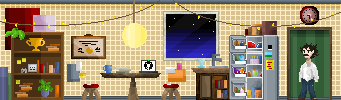
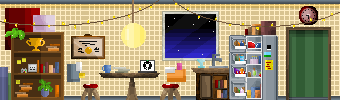
added site background brick + waving

diff --git a/main.js b/main.js
@@ -2,12 +2,14 @@
 // game configuration
 const config = {
     type: Phaser.AUTO,  
-    width: 341,
+    width: 340,
     height: 100,
     pixelArt: true,   // declare this for upscaling
     scale: {
-      mode: Phaser.Scale.NONE,
-      zoom: 3                  
+      mode: Phaser.Scale.FIT, // FIT for full screen, None for smaller
+      zoom: 2,
+      autoCenter: Phaser.Scale.CENTER_BOTH  // put it in the MIDDLE of page
+                  
     },
     physics: {
       default: 'arcade',
@@ -33,7 +35,6 @@ const config = {
 
 
   // text box above the scene do i have to extend it to do that?
-  // need a cursor object for selecting items in house
   // gonna start with 3, diploma, github, and resume
 
 
@@ -55,7 +56,8 @@ const config = {
     this.load.spritesheet('walkingRight', 'assets/walkingRight.png', {frameWidth:64, frameHeight:64})
     this.load.spritesheet('lookUpLeft', 'assets/lookUpLeft.png', {frameWidth:64, frameHeight:64})
     this.load.spritesheet('lookUpRight', 'assets/lookUpRight.png', {frameWidth:64, frameHeight:64})
-    this.load.spritesheet('wave', 'assets/wave.png', {frameWidth:64, frameHeight:64})
+    this.load.spritesheet('waveLeft', 'assets/waveLeft.png', {frameWidth:64, frameHeight:64})
+    this.load.spritesheet('waveRight', 'assets/waveRight.png', {frameWidth:64, frameHeight:64})
 
 
   }
@@ -68,20 +70,22 @@ const config = {
     // the order you add items is how they appear (make sure background is before everything else)
     // background
     this.add.image(0, 0, 'sky').setOrigin(0, 0);
-    //this.add.image(170, 50, 'scene');
 
 
     // add ground
     platforms = this.physics.add.staticGroup();
 
     // change this to correct spot
-    platforms.create(0, 101, 'ground').setScale(2).refreshBody();
+    //platforms.create(0, 100, 'ground').setScale(2).refreshBody();
+    platforms.create(0, 100, 'ground').refreshBody();
 
 
 
     // char (might need to figure this out, idk if i need two players for left and right yet)
-    player = this.physics.add.sprite(100, 100, 'idleLeft');
-    // keep track of this
+    player = this.physics.add.sprite(310, 100, 'idleLeft');
+    // model isn't fully on ground in the assets so offset down to floor
+    player.setOffset(0,-5);
+    // keep track of this for animation smoothness
     player.facing = 'left';
 
 
@@ -149,13 +153,22 @@ const config = {
       repeat: -1
     })
 
-    // waving
+    // waving left
     this.anims.create({
-      key: 'waving',
-      frames: this.anims.generateFrameNumbers('wave', {start:0, end: 4}),
+      key: 'wavingLeft',
+      frames: this.anims.generateFrameNumbers('waveLeft', {start:0, end: 4}),
       frameRate: 7,
       repeat:-1
     })
+
+    // waving right
+    this.anims.create({
+      key: 'wavingRight',
+      frames: this.anims.generateFrameNumbers('waveRight', {start:0, end: 4}),
+      frameRate: 7,
+      repeat:-1
+    })
+
   }
   
   // gonna get called for every frame update (idk what phaser framerate is auto set to)
@@ -165,7 +178,11 @@ const config = {
     if (cursors.up.isDown) {
       // ptop moving left or right if in motion
       player.setVelocityX(0);
-      player.anims.play('waving', true);
+      if (player.facing === 'left') {
+        player.anims.play('wavingLeft', true);
+      } else {
+        player.anims.play('wavingRight', true);
+      }
 
       
   

diff --git a/style.css b/style.css
@@ -1,0 +1,13 @@
+  html, body {
+    margin: 0;
+    padding: 0;
+    width: 100%;
+    height: 100%;
+    background-image: url('assets/bricks.png');
+    background-repeat: repeat; 
+    background-size: 256px 256px; /* size up */
+    background-color: #6b7b87; /* fallback */
+    image-rendering: pixelated; /* awesome scaling tool */
+
+
+  }

diff --git a/index.html b/index.html
@@ -5,6 +5,7 @@
     <title>Phaser Walkaround</title>
     <!-- Load Phaser (CDN link for Phaser 3) -->
     <script src="https://cdn.jsdelivr.net/npm/phaser@3/dist/phaser.js"></script>
+    <link rel="stylesheet" href="style.css" />
   </head>
   <body>
     <script src="main.js"></script>
